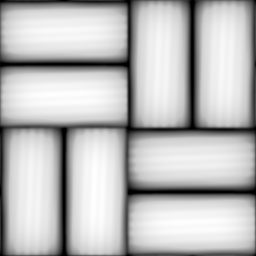
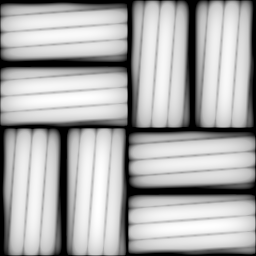
Rope weave: visible fibres; Figure 4 stat formulas
The weave maps get fewer, wider and deeper fibre bundles inside each
strand, with their grooves shaded, so the fine structure shows on
Figure 5's large ropes. Figure 4's stats show ω/2π and 2πv/ω.

Changed region(s): [[0.0, 0.0, 1.0, 1.0]]

diff --git a/viz/rope-twist.html b/viz/rope-twist.html
@@ -47,8 +47,8 @@ input:focus-visible,button:focus-visible{outline:2px solid var(--accent);outline
 <label for="sv">Pull speed</label><input type="range" id="sv" min="-10" max="10" step="1" value="5"><output id="so">5 cm/s</output>
 </div>
 <div class="stats">
-<div class="stat"><div>Rope pulled per one full turn</div><div id="ot">18.8 cm</div></div>
-<div class="stat"><div>Spin rate (<math><mn>2π</mn><mi>ω</mi></math>)</div><div id="or">0.32 rev/s</div></div>
+<div class="stat"><div>Rope pulled per one full turn, <math><mfrac><mrow><mn>2</mn><mo>&#x2062;</mo><mi>π</mi><mo>&#x2062;</mo><mi>v</mi></mrow><mi>ω</mi></mfrac></math></div><div id="ot">18.8 cm</div></div>
+<div class="stat"><div>Spin rate, <math><mfrac><mi>ω</mi><mrow><mn>2</mn><mo>&#x2062;</mo><mi>π</mi></mrow></mfrac></math></div><div id="or">0.32 rev/s</div></div>
 </div>
 <p class="note" id="lg" hidden>This figure needs WebGL 2, which this browser does not provide.</p>
 </div>

diff --git a/index.html b/index.html
@@ -622,12 +622,12 @@
         a pulley, through a tube-style device, or through some simple anchor configurations.
       </p>
 
-      <h3>Simplest case</h3>
+      <h3>Simple case</h3>
 
       <p>
         The simplest case which <i>does</i> induce twist is a rope wrapped around a bar at an angle (<a
           href="#fig-3">Figure 3</a>). Running the rope
-        along such a path forces the rope to rotate about its own axis at the rate of <math>
+        along such a path forces the rope to spin about its own axis at the rate of <math>
           <mi>ω</mi>
         </math>
         radians per second:

diff --git a/viz/make-rope-maps.py b/viz/make-rope-maps.py
@@ -20,8 +20,10 @@ from PIL import Image
 N = 256                  # tile size in pixels (2 x 2 cells)
 CELL = N // 2
 YARNS = 2                # yarns side by side in a carrier
-FIBRES = 7               # fibre grooves across one yarn
+FIBRES = 4               # fibre bundles across one yarn: few and wide, so they still show when the map is
+                         # shrunk to a few screen pixels per yarn (Figure 5's ropes)
 TWIST = 0.6              # fibre groove slant: grooves across per cell length
+GROOVE = 0.3             # depth of the grooves between fibre bundles, as a share of the yarn height
 THICK = 0.16             # carrier height, in cell widths
 DIVE = 0.55              # how far carrier ends sink under the crossing carriers (0..1)
 NORMAL_GAIN = 0.8        # scales slopes when converting height to normals
@@ -34,9 +36,9 @@ def carrier(along, across):
     # Yarns: rounded profiles across the carrier, flattened slightly where they press together.
     y = (across * YARNS) % 1.0
     yarn = np.clip(1 - (2 * y - 1) ** 2, 0, 1) ** 0.7
-    # Fibre grooves, slanted by the yarn twist.
-    fib = 0.5 + 0.5 * np.cos(2 * np.pi * (y * FIBRES + along * TWIST))
-    yarn = yarn * (1 - 0.08 * fib)
+    # Fibre bundles, slanted by the yarn twist: rounded ridges with grooves between them.
+    fib = np.abs(np.sin(np.pi * (y * FIBRES + along * TWIST))) ** 0.6
+    yarn = yarn * (1 - GROOVE * (1 - fib))
     # Arch along the carrier: high in the middle, diving at both ends.
     arch = 1 - DIVE * (2 * along - 1) ** 4
     return THICK * yarn * arch
@@ -68,7 +70,7 @@ def blur(a, sigma):
 def main():
     out = os.path.dirname(os.path.abspath(__file__))
     h = tile()
-    h = blur(h, 1.2)                           # soften pixel-level aliasing of the grooves
+    h = blur(h, 0.7)                           # soften pixel-level aliasing of the grooves
 
     # Normals from central differences (wrapping), with height in cell widths.
     du = (np.roll(h, -1, 1) - np.roll(h, 1, 1)) * CELL / 2
@@ -81,7 +83,9 @@ def main():
     # with cavity (height below the local average) at two scales.
     hn = h / h.max()
     cavity = (h - blur(h, CELL * 0.08)) / THICK + 0.5 * (h - blur(h, CELL * 0.25)) / THICK
-    ao = np.clip(0.3 + 0.7 * hn ** 0.6 + 0.8 * np.minimum(cavity, 0), 0, 1)
+    # Fine cavity: the grooves between fibre bundles, a few pixels wide.
+    fine = (h - blur(h, CELL / (YARNS * FIBRES) * 0.5)) / THICK
+    ao = np.clip(0.3 + 0.7 * hn ** 0.6 + 0.8 * np.minimum(cavity, 0) + 1.5 * np.minimum(fine, 0), 0, 1)
     Image.fromarray(np.round(ao * 255).astype(np.uint8), 'L').save(os.path.join(out, 'rope-ao.png'))
 
 
